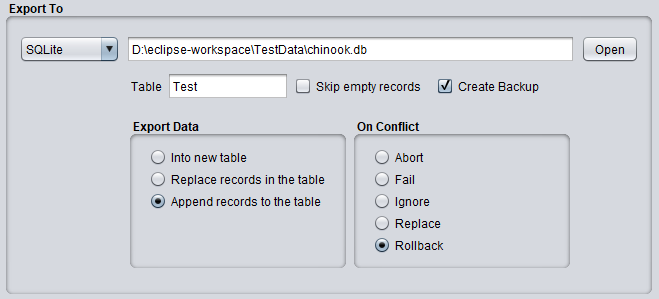
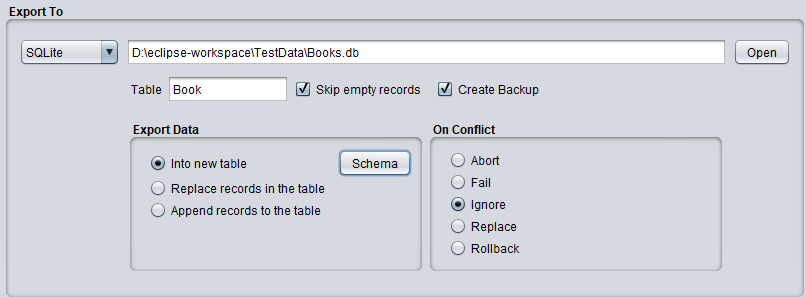
Update SQlite help file

diff --git a/fnpdbc-commons/src/main/resources/help/export_sqlite.html b/fnpdbc-commons/src/main/resources/help/export_sqlite.html
@@ -6,7 +6,11 @@
 <ul>
 <li><b>Into new table</b></li>
 This option creates a new table and writes the records into it. Should the table already exists in the
- database then DBConvert/FNprog2PDA will overwrite it with a DROP/CREATE table.
+ database then DBConvert/FNprog2PDA will overwrite it with a DROP/CREATE table.<br><br>
+<b>Schema</b><br>
+This button displays the SQL statement that will be used to create the [new] table.<br><br>
+<b>Example:</b><br><br>
+<img src="../images/DbSchema.png">
 <br><br>
 <li><b>Replace records in the table</b></li>
 This option erases previous existing records in the table with a DELETE statement and writes the new

diff --git a/fnpdbc-commons/src/main/java/dbengine/export/SQLite.java b/fnpdbc-commons/src/main/java/dbengine/export/SQLite.java
@@ -149,7 +149,7 @@ public class SQLite extends SqlDB implements IConvert {
 			buf.append(",\nPRIMARY KEY (").append(pkBuf).append(")");
 		}
 
-		buf.append("\n);");
+		buf.append(");");
 		return buf.toString();
 	}
 
